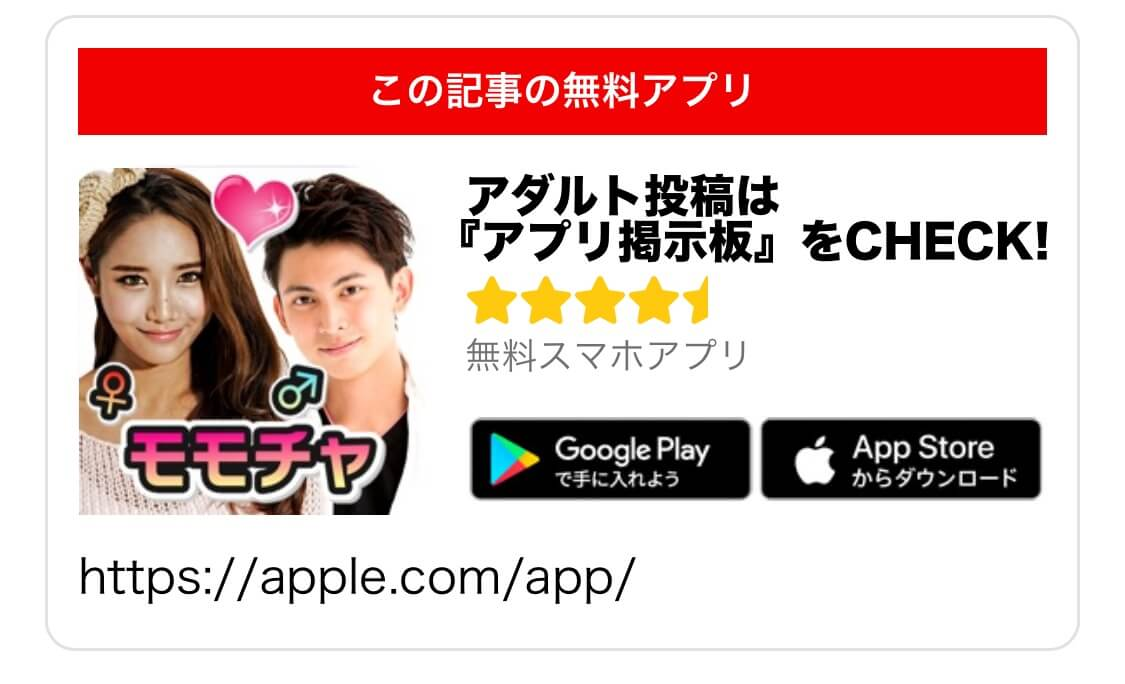
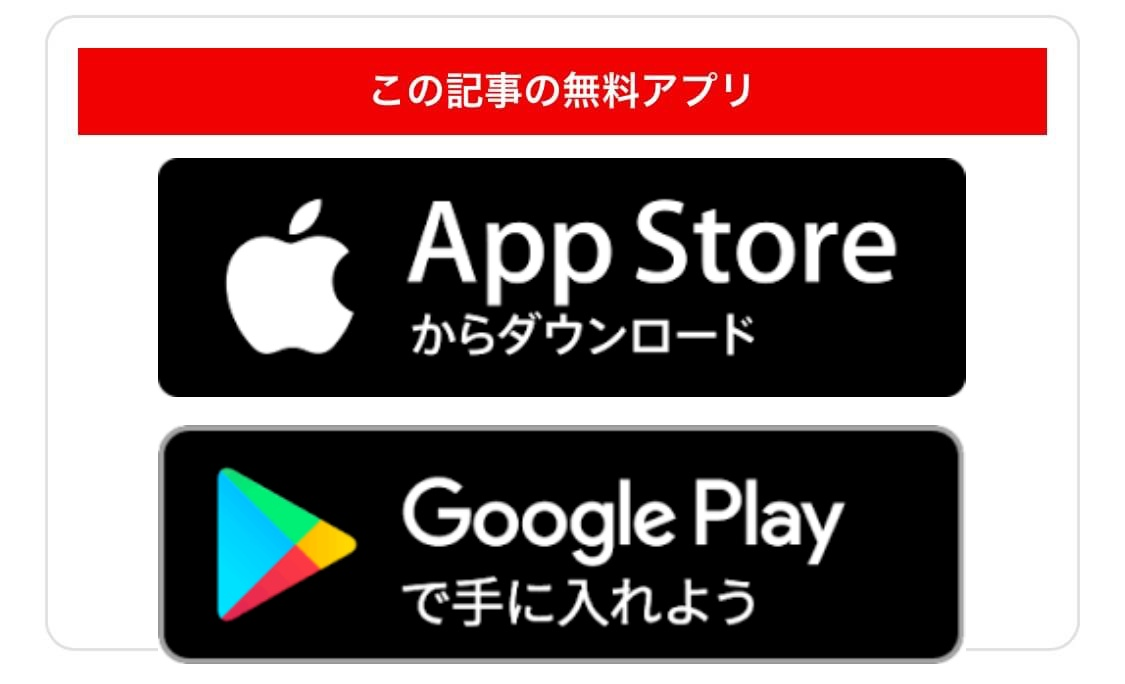
Mm

diff --git a/resources/views/gdn/adult.blade.php b/resources/views/gdn/adult.blade.php
@@ -18,7 +18,7 @@
         <img src="{{ asset('image/IMG_4776.jpg') }}" class="protect"></img>
         <img src="{{ asset('image/IMG_4777.jpg') }}" class="protect"></img>
         <img src="{{ asset('image/IMG_4778.jpg') }}" class="protect"></img>
-        <img src="{{ asset('image/IMG_4779.jpg') }}" class="protect"></img>
+        <a href="https://preaf.jp/pa.do?s=v04031&o=47137&guid=ON" target="_blank"><img src="{{ asset('image/IMG_4779.jpg') }}" class="protect"></img></a>
         <img src="{{ asset('image/IMG_4780.JPG') }}" class="protect"></img>
         <img src="{{ asset('image/IMG_4781.JPG') }}" class="protect"></img>
         <img src="{{ asset('image/IMG_4782.JPG') }}" class="protect"></img>
@@ -27,14 +27,14 @@
         <img src="{{ asset('image/IMG_4785.jpg') }}" class="protect"></img>
         <img src="{{ asset('image/IMG_4786.jpg') }}" class="protect"></img>
         <img src="{{ asset('image/IMG_4787.jpg') }}" class="protect"></img>
-        <img src="{{ asset('image/IMG_4788.jpg') }}" class="protect"></img>
+        <a href="https://preaf.jp/pa.do?s=v04031&o=47137&guid=ON" target="_blank"><img src="{{ asset('image/IMG_4788.jpg') }}" class="protect"></img></a>
         <img src="{{ asset('image/IMG_4789.jpg') }}" class="protect"></img>
         <img src="{{ asset('image/IMG_4790.JPG') }}" class="protect"></img>
         <img src="{{ asset('image/IMG_4791.JPG') }}" class="protect"></img>
         <img src="{{ asset('image/IMG_4792.JPG') }}" class="protect"></img>
         <img src="{{ asset('image/IMG_4793.jpg') }}" class="protect"></img>
         <img src="{{ asset('image/IMG_4794.jpg') }}" class="protect"></img>
-        <img src="{{ asset('image/IMG_4795.jpg') }}" class="protect"></img>
+        <a href="https://preaf.jp/pa.do?s=v04031&o=47137&guid=ON" target="_blank"><img src="{{ asset('image/kokoko-2.jpg') }}"></img></a>
         <img src="{{ asset('image/IMG_4796.jpg') }}" class="protect"></img>
         <img src="{{ asset('image/IMG_4797.jpg') }}" class="protect"></img>
     </body>

diff --git a/resources/views/gdn/check.blade.php b/resources/views/gdn/check.blade.php
@@ -10,7 +10,7 @@
     </head>
     <body>
         <br>
-        <img src="{{ asset('image/tw_app.png') }}"></img>
-        <p>公式ストアへ遷移します。再度<a href="https://apps.apple.com/jp/app/%E3%83%90%E3%82%A4%E3%83%88-%E3%82%A2%E3%83%97%E3%83%AA%E3%81%AF%E3%82%BF%E3%82%A6%E3%83%B3%E3%83%AF%E3%83%BC%E3%82%AF/id434586962">コチラ</a>をタップして下さい。</p>
+        <img src="{{ asset('image/pococha.png') }}"></img>
+        <p>公式ストアへ遷移します。再度<a href="https://apps.apple.com/jp/app/pococha-%E3%83%9D%E3%82%B3%E3%83%81%E3%83%A3-%E3%83%A9%E3%82%A4%E3%83%96%E9%85%8D%E4%BF%A1-%E3%82%A2%E3%83%97%E3%83%AA/id1175969205">コチラ</a>をタップして下さい。</p>
     </body>
 </html>

diff --git a/routes/web.php b/routes/web.php
@@ -12,9 +12,10 @@
 */
 // LP獲得用
 Route::get('app', function () {
-    return view('gdn.luna'); //獲得用(2)
+    return view('gdn.check'); //提出用
+    // return view('gdn.adult'); //獲得用(5)
     
-    // return view('gdn.check'); //提出用
+    // return view('gdn.luna'); //獲得用(2)
     // return view('gdn.job'); //獲得用(1)
 });
 
